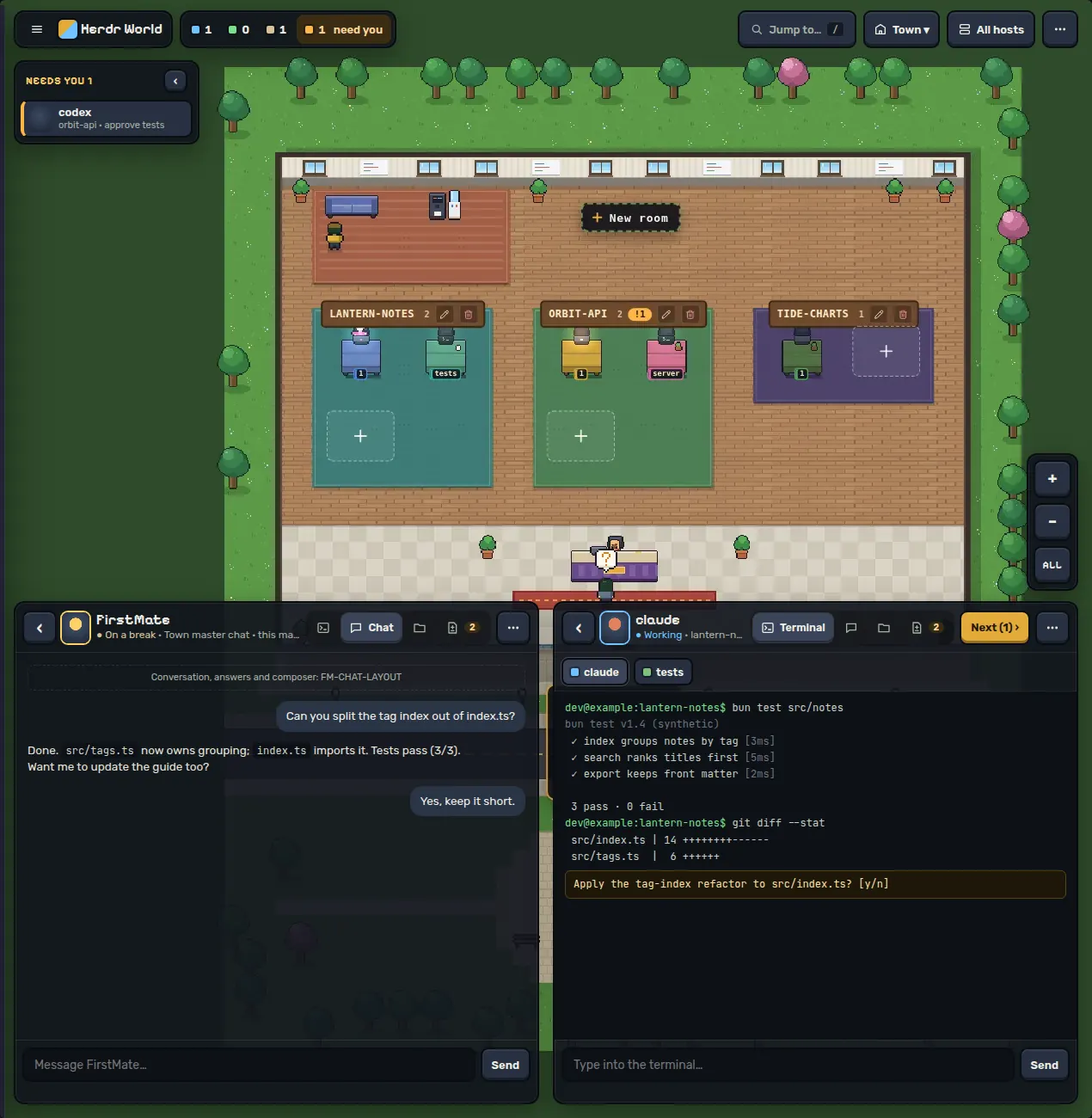
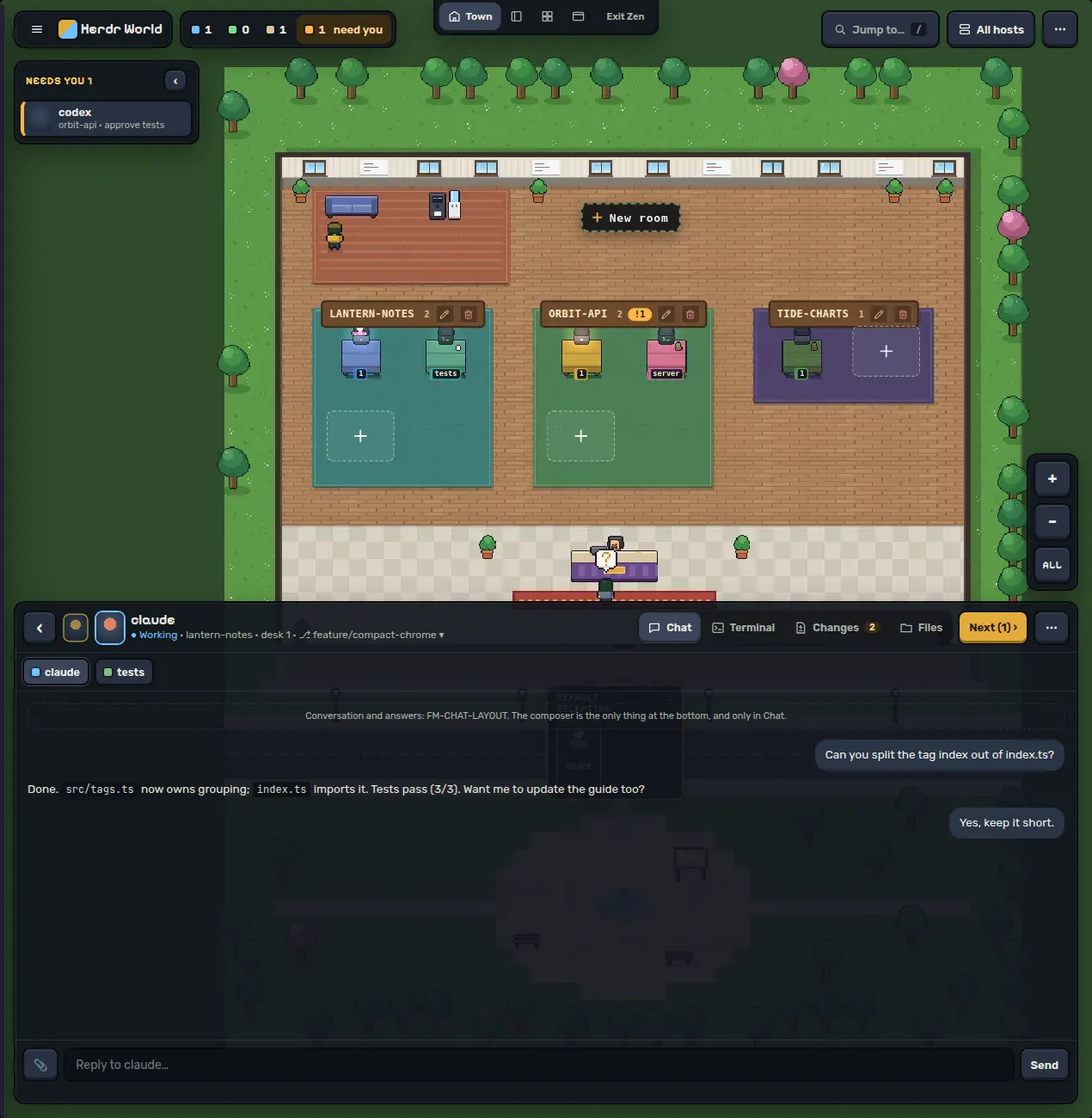
Record owner decisions: Zen Town, one window per agent, one top selector
Town defaults to Zen with a floating view picker, Zen works on phones,
FirstMate and the agent share the dock as avatar tabs in the bar, and
each agent has one Inspector window whose header carries the only
selector (Chat, Terminal, Changes, Files) with Chat's composer as the
only bottom element.

diff --git a/docs/evidence/ui-chrome-design/prototype.html b/docs/evidence/ui-chrome-design/prototype.html
@@ -120,7 +120,7 @@ code{font:500 12px var(--f-mono);color:#cfd6c9;background:#0d1117;padding:1px 5p
 .tchip b{display:block;font:600 13px var(--f-body)}
 .tchip small{display:block;font-size:11px;color:var(--muted)}
 .tray{left:16px;top:70px;width:216px;flex-direction:column}
-@container dev (max-width:899px){ .tray{top:auto;width:auto;flex-direction:row;align-items:center;left:10px;right:70px;bottom:calc(var(--nav-h,0px) + 10px)} }
+@container dev (max-width:899px){ .tray{top:auto;width:auto;flex-direction:row;align-items:center;left:72px;right:72px;bottom:calc(var(--nav-h,0px) + 10px)} }
 
 /* Camera cluster */
 .camera{position:absolute;z-index:3;right:16px;top:50%;transform:translateY(-50%);display:flex;flex-direction:column;gap:6px;padding:6px;background:var(--panel);border:2px solid var(--edge);border-radius:12px;box-shadow:inset 0 0 0 1px var(--hi),0 10px 30px rgba(0,0,0,.35);transition:right .3s}
@@ -158,7 +158,7 @@ code{font:500 12px var(--f-mono);color:#cfd6c9;background:#0d1117;padding:1px 5p
 .who{display:flex;align-items:center;gap:8px;min-width:0;flex:1 1 auto}
 .avatar{width:32px;height:36px;border-radius:7px;flex:none;position:relative;background:radial-gradient(circle at 50% 38%,#e0835f 0 26%,#3b4a63 27%,#1b2230);box-shadow:0 0 0 2px var(--swatch,#6fc3ff)}
 .avatar.fm{background:radial-gradient(circle at 50% 38%,#ffd166 0 26%,#3b4a63 27%,#1b2230)}
-.ident{min-width:0;display:flex;flex-direction:column}
+.ident{min-width:88px;flex:1 1 auto;display:flex;flex-direction:column}
 .ident b{font:700 16px/1.1 var(--f-display);white-space:nowrap;overflow:hidden;text-overflow:ellipsis;display:flex;align-items:center;gap:6px}
 .where{all:unset;cursor:pointer;color:var(--muted);font-size:12px;white-space:nowrap;overflow:hidden;text-overflow:ellipsis;max-width:100%;border-radius:4px}
 .where:hover{color:var(--text)}
@@ -168,7 +168,6 @@ code{font:500 12px var(--f-mono);color:#cfd6c9;background:#0d1117;padding:1px 5p
 .chip[aria-selected="true"]{background:var(--btn-on);color:var(--text);box-shadow:inset 0 -2px 0 rgba(0,0,0,.35),0 0 0 1px rgba(255,255,255,.14)}
 .chip .n{font-size:10.5px;background:#3a2c14;color:#ffd79a;border-radius:999px;padding:0 6px}
 .chip .t{display:none}
-.chip[aria-selected="true"] .t{display:inline}
 @container win (min-width:640px){ .chip .t{display:inline} }
 .next{white-space:nowrap;flex:none}
 .st.working{color:var(--work)}.st.idle{color:var(--idle)}
@@ -203,10 +202,34 @@ code{font:500 12px var(--f-mono);color:#cfd6c9;background:#0d1117;padding:1px 5p
 .compose input{flex:1;min-width:0;font:400 14px var(--f-body);color:var(--text);background:var(--term);border:2px solid var(--edge);border-radius:9px;padding:0 12px;min-height:40px}
 .collapsed .panes,.collapsed .wbody,.collapsed .compose{display:none}
 .win.collapsed{height:auto!important}
+.avtab{all:unset;cursor:pointer;position:relative;display:inline-flex;border-radius:8px;opacity:.6;transform:scale(.82)}
+.avtab:hover,.avtab:focus-visible{opacity:1}
+.avtab:focus-visible{outline:2px solid var(--accent)}
+.avtab .badge{position:absolute;right:-2px;top:-2px;width:9px;height:9px;border-radius:50%;background:var(--wait);box-shadow:0 0 0 2px var(--edge)}
+.cviews{display:flex;gap:2px;flex:none}
+.cviews .chip{min-height:40px;padding:0 7px}
+.compose .dv-btn.on{background:var(--btn-on);color:var(--work)}
+.vpop{position:absolute;left:8px;bottom:56px;z-index:8;width:200px;padding:6px;background:var(--solid);border:2px solid var(--edge);border-radius:10px;display:flex;flex-direction:column}
+.vpop .mi,.zsheet .mi{all:unset;cursor:pointer;display:flex;align-items:center;gap:8px;padding:10px;border-radius:7px;font-size:14px;min-height:24px}
+.vpop .mi:hover,.zsheet .mi:hover,.zsheet .mi.on{background:#222b39}
+.vpop .n{font-size:10.5px;background:#3a2c14;color:#ffd79a;border-radius:999px;padding:0 6px}
+.zpick{position:absolute;z-index:3;top:0;left:50%;transform:translateX(-50%);display:flex;gap:2px;padding:4px 6px 5px;background:var(--panel);border:2px solid var(--edge);border-top:0;border-radius:0 0 12px 12px;box-shadow:0 10px 30px rgba(0,0,0,.35)}
+.zp{all:unset;cursor:pointer;display:inline-flex;align-items:center;gap:5px;height:30px;padding:0 9px;border-radius:8px;font:600 12px var(--f-body);color:var(--muted)}
+.zp span{display:none}
+.zp.on{background:var(--btn-on);color:var(--text)}.zp.on span{display:inline}
+.zp:hover{color:var(--text)}
+.zp.exit{border-left:1px solid var(--line);border-radius:0 8px 8px 0;margin-left:4px;font-size:11px}
+.zfab{position:absolute;z-index:5;left:10px;bottom:10px}
+.zfab>.dv-btn{width:52px;height:52px;padding:0;border-radius:14px;background:var(--panel)}
+.zsheet{position:absolute;left:0;bottom:60px;width:200px;padding:6px;background:var(--solid);border:2px solid var(--edge);border-radius:12px;box-shadow:0 12px 30px rgba(0,0,0,.5);display:flex;flex-direction:column}
+.zsheet hr{border:0;border-top:1px solid var(--line);margin:4px 2px}
 .thumbviews{display:none}
-/* phone: window covers the screen, views move to the thumb row above the composer */
+/* phone: the window covers the screen; the selector stays in the header */
 .win.cover{inset:0;border-radius:0;border:0;background:var(--solid)!important}
-.win.cover .wbar .views{display:none}
+.win.cover .wbar{gap:4px;padding:6px}
+.win.cover .views{padding:2px;gap:2px}
+.win.cover .chip{min-height:40px;padding:0 8px}
+.win.cover .ident{min-width:64px}
 .win.cover .thumbviews{display:flex;justify-content:space-between;padding:6px 8px 0;border-top:1px solid var(--line);flex:none}
 .win.cover .thumbviews .chip{flex:1;justify-content:center;min-height:44px}
 .win.cover .thumbviews .chip .t{display:inline}
@@ -274,10 +297,10 @@ code{font:500 12px var(--f-mono);color:#cfd6c9;background:#0d1117;padding:1px 5p
         <h3>Town window (v4 skin)</h3>
         <ul class="plain">
           <li><b>‹ Back</b> · avatar (its ring is the terminal colour) · <b>name</b> + status pill, with a <b>location line</b> underneath (room · desk · branch). Tap the location line for branch, worktree, path and PR.</li>
-          <li><b>View chips</b> for Terminal, Chat, Files and Changes sit in the same bar. The active chip shows its label; the others are icons until the window is 640px wide.</li>
-          <li><b>Next ›</b> is the primary action. It turns gold when someone else needs you.</li>
+          <li><b>One top selector</b> with Chat, Terminal, Changes and Files sits in the same bar on every screen size. The chips are icons until the window is 640px wide; Changes shows its count.</li>
+          <li><b>Next ›</b> is the primary action on desktop and turns gold when someone else needs you. On a phone it moves into ⋯, because the need-you pill already covers it.</li>
           <li><b>⋯</b> holds the rare actions: snap, float or dock, maximise, minimise, colour and pop-out. Double-click the bar to maximise; drag it to the edges to snap.</li>
-          <li>Pane chips get a second row only when the desk has 2 or more panes. The composer is owned by Chat.</li>
+          <li>Pane chips get a second row only when the desk has 2 or more panes. At the bottom there is only Chat's composer (attach, reply box, send), and only in Chat. Terminal, Changes and Files have no bottom bar.</li>
         </ul>
       </div>
       <div>
@@ -306,11 +329,11 @@ code{font:500 12px var(--f-mono);color:#cfd6c9;background:#0d1117;padding:1px 5p
     <div class="tablewrap"><table>
       <thead><tr><th>Viewport</th><th>Town dock</th><th>Window bar</th><th>Tray and camera</th><th>Board / Spaces</th></tr></thead>
       <tbody>
-        <tr><td>Phone 390 × 844</td><td>Window covers the screen. Back returns to the map. FirstMate chat is reached from the need-you pill.</td><td>Back, name, Next on top. View chips move to a 44px thumb row above the composer.</td><td>Bottom tray strip. One 44px camera button. Bottom nav kept.</td><td>Unchanged: phone Board and Spaces already use one header.</td></tr>
-        <tr><td>Mac laptop 1440 × 900</td><td>Right dock, <code>min(520px, 40vw)</code>. FirstMate chat folds to its 58px bar above the agent window.</td><td>Town skin. Icon chips except the active one.</td><td>Left rail of 216px. Camera sits beside the dock.</td><td>Calm 44px app bar. Spaces uses a 40px merged bar.</td></tr>
-        <tr><td>Half-width Linux 1270 × 1300</td><td>Right dock, 508px. Both windows open, stacked in halves (the height allows it).</td><td>As laptop.</td><td>Left rail. Hosts shrinks to an icon.</td><td>Sidebar follows the user's preference. Inspector windows open at 60% width.</td></tr>
-        <tr><td>Wide Linux 2560 × 1300</td><td>Two docked columns of 520px: FirstMate chat and the agent window.</td><td>Labelled chips, since the window is 520px or wider.</td><td>Left rail. Camera beside the dock.</td><td>As laptop.</td></tr>
-        <tr><td>Portrait 1080 × 1800</td><td>Bottom dock at 45% height, with the two windows side by side. Width is scarce here; height is not.</td><td>Town skin.</td><td>Left rail. Camera above the dock.</td><td>Spaces terminal gains the 84px.</td></tr>
+        <tr><td>Phone 390 × 844</td><td>Window covers the screen. Back returns to the map. FirstMate is the other tab.</td><td>‹, avatar, name, the 4-icon selector (40px targets) and ⋯. Next goes into ⋯.</td><td>Bottom strip, with the view picker at bottom left and one 44px camera button. In Zen there is no bottom nav.</td><td>Unchanged: phone Board and Spaces already use one header.</td></tr>
+        <tr><td>Mac laptop 1440 × 900</td><td>Right dock, <code>min(520px, 40vw)</code>. FirstMate and the agent share it as avatar tabs in the bar.</td><td>Town skin. Icon chips.</td><td>Left rail. Camera beside the dock.</td><td>Calm 44px app bar. Spaces uses a 40px merged bar.</td></tr>
+        <tr><td>Half-width Linux 1270 × 1300</td><td>Right dock, 508px, with avatar tabs.</td><td>As laptop.</td><td>Left rail. Hosts shrinks to an icon.</td><td>Sidebar follows the user's preference. Inspector windows open at 60% width.</td></tr>
+        <tr><td>Wide Linux 2560 × 1300</td><td>Right dock of 520px, with avatar tabs. Undock a tab to float it beside the dock.</td><td>Icon chips; labels appear at 640px or wider.</td><td>Left rail. Camera beside the dock.</td><td>As laptop.</td></tr>
+        <tr><td>Portrait 1080 × 1800</td><td>Bottom dock at 45% height and full width, with avatar tabs. Width is scarce here; height is not.</td><td>Town skin.</td><td>Left rail. Camera above the dock.</td><td>Spaces terminal gains the 84px.</td></tr>
       </tbody>
     </table></div>
   </section>
@@ -331,7 +354,7 @@ code{font:500 12px var(--f-mono);color:#cfd6c9;background:#0d1117;padding:1px 5p
         <tr><td>1 controls</td><td>Dock / float / dock side / expand / pop-out</td><td>Inspector placement modes</td><td><span class="freq f4">rare</span></td><td>⋯ menu</td></tr>
         <tr><td>1 controls</td><td>Colour swatch (#261)</td><td>Pick the terminal colour</td><td><span class="freq f4">rare</span></td><td>Avatar ring or swatch; picker under ⋯ → Colour</td></tr>
         <tr><td>1 controls</td><td>Repository status (PR icon)</td><td>PR card popover</td><td><span class="freq f3">sometimes</span></td><td>Location popover. The icon goes, because it duplicates bar 3.</td></tr>
-        <tr><td>2 views</td><td>Terminal · Files · Changes (+count) · Commits · Chat</td><td>Switch the view</td><td><span class="freq f1">constant</span></td><td>Chips in the one bar; a thumb row on phone</td></tr>
+        <tr><td>2 views</td><td>Terminal · Files · Changes (+count) · Commits · Chat</td><td>Switch the view</td><td><span class="freq f1">constant</span></td><td>One top selector in the bar, phone included</td></tr>
         <tr><td>3 branch</td><td>Branch-link icon row</td><td>Opens PR status</td><td><span class="freq f4">rare</span></td><td>Removed; the location popover covers it</td></tr>
         <tr><td>3 PR card</td><td>“PR/MR status” card (Changes, Commits)</td><td>Provider PR state, refresh</td><td><span class="freq f3">sometimes</span></td><td>Pill in the Changes toolbar plus the popover</td></tr>
         <tr><td>Town</td><td>Camera + − ALL (+ ⋮ on phone)</td><td>Zoom and fit</td><td><span class="freq f2">often</span></td><td>Desktop cluster; one 44px fit button on phone (was 56 × 190)</td></tr>
@@ -363,8 +386,8 @@ const VPS = [
 ];
 const VIEWS = ['Town','Board','Spaces'];
 const MODES = ['Before','After'];
-let st = {vp:'laptop', view:'Town', mode:'After', open:true, drawer:false};
-try { const s = JSON.parse(localStorage.getItem('chrome-proto') || 'null'); if (s) st = {...st, ...s, drawer:false}; } catch {}
+let st = {vp:'laptop', view:'Town', mode:'After', open:true, drawer:false, opt:'B', picker:false};
+try { const s = JSON.parse(localStorage.getItem('chrome-proto') || 'null'); if (s) st = {...st, ...s, drawer:false, picker:false}; } catch {}
 const save = () => { try { localStorage.setItem('chrome-proto', JSON.stringify(st)); } catch {} };
 const $ = (id) => document.getElementById(id);
 const esc = (s) => String(s).replace(/[&<>"]/g, (m) => ({'&':'&amp;','<':'&lt;','>':'&gt;','"':'&quot;'}[m]));
@@ -438,7 +461,7 @@ function extras() {
 }
 
 /* ---------- window mock ---------- */
-const VIEW_DEFS = [['terminal','Terminal',I.term],['chat','Chat',I.chat],['files','Files',I.files],['changes','Changes',I.diff]];
+const VIEW_DEFS = [['chat','Chat',I.chat],['terminal','Terminal',I.term],['changes','Changes',I.diff],['files','Files',I.files]];
 function chips(cur, id) {
   return VIEW_DEFS.map(([k,l,ic]) => `<button type="button" class="chip" role="tab" data-win="${id}" data-v="${k}" aria-selected="${cur===k}" aria-label="${l}">${ic}<span class="t">${l}</span>${k==='changes'?'<span class="n">2</span>':''}</button>`).join('');
 }
@@ -454,33 +477,33 @@ function body(v, w) {
  src/index.ts | 14 ++++++++------
  src/tags.ts  |  6 ++++++
 <span class="q">Apply the tag-index refactor to src/index.ts? [y/n]</span></pre>`;
-  if (v === 'chat') return `<div class="chatv"><div class="owner">Conversation, answers and composer: FM-CHAT-LAYOUT</div><div class="me">Can you split the tag index out of index.ts?</div><div class="ag">Done. <code>src/tags.ts</code> now owns grouping; <code>index.ts</code> imports it. Tests pass (3/3). Want me to update the guide too?</div><div class="me">Yes, keep it short.</div></div>`;
+  if (v === 'chat') return `<div class="chatv"><div class="owner">Conversation and answers: FM-CHAT-LAYOUT. The composer is the only thing at the bottom, and only in Chat.</div><div class="me">Can you split the tag index out of index.ts?</div><div class="ag">Done. <code>src/tags.ts</code> now owns grouping; <code>index.ts</code> imports it. Tests pass (3/3). Want me to update the guide too?</div><div class="me">Yes, keep it short.</div></div>`;
   if (v === 'files') return `<div class="listv"><div class="tb">~/demo/lantern-notes</div>${['README.md','src/','  index.ts','  tags.ts','  search.ts','docs/','  guide.md'].map((f)=>`<div class="r">${f.endsWith('/')?I.files:''}<code>${esc(f)}</code></div>`).join('')}</div>`;
   return `<div class="listv"><div class="tb">2 files · <span class="pill">⎇ feature/compact-chrome</span><span class="pill">No PR provider</span></div><div class="r"><code>src/index.ts</code><span class="add">+8</span><span class="del">−6</span></div><div class="r"><code>src/tags.ts</code><span class="add">+6</span><span class="del">−0</span></div></div>`;
 }
 const WIN = {
-  a:{name:'claude', status:'working', where:'lantern-notes · desk 1 · ⎇ feature/compact-chrome', view:'terminal', swatch:'#6fc3ff', panes:['claude','tests'], fm:false},
+  a:{name:'claude', status:'working', where:'lantern-notes · desk 1 · ⎇ feature/compact-chrome', view:'chat', swatch:'#6fc3ff', panes:['claude','tests'], fm:false},
   fm:{name:'FirstMate', status:'idle', where:'Town master chat · this machine', view:'chat', swatch:'#ffd166', panes:null, fm:true},
 };
-let menuOpen = null, popOpen = null;
+let menuOpen = null, popOpen = null, activeTab = 'a';
 function townWin(id, style, opts = {}) {
   const w = WIN[id];
   const cover = !!opts.cover;
   return `<section class="win ${cover?'cover':''} ${opts.collapsed?'collapsed':''}" data-skin="town" data-id="${id}" style="${style};--swatch:${w.swatch}" aria-label="${w.name} window">
     <header class="wbar" title="Drag to move · double-click to maximise">
       <button type="button" class="dv-btn" aria-label="Back to the town" style="font-size:20px;padding:0">‹</button>
-      <div class="who"><span class="avatar ${w.fm?'fm':''}"></span><div class="ident"><b>${esc(w.name)}</b><button type="button" class="where" data-pop="${id}" aria-expanded="${popOpen===id}"><span class="st ${w.status}">● ${w.status==='working'?'Working':'On a break'}</span> · ${esc(w.where)} ▾</button></div></div>
+      <div class="who">${opts.tabs?opts.tabs.map((t)=>t===id?'':`<button type="button" class="avtab" data-tab="${t}" aria-label="Switch to ${WIN[t].name}" title="${WIN[t].name}"><span class="avatar ${WIN[t].fm?'fm':''}" style="--swatch:${WIN[t].swatch}"></span>${t==='fm'?'':'<i class="badge"></i>'}</button>`).join(''):''}<span class="avatar ${w.fm?'fm':''}"></span><div class="ident"><b>${esc(w.name)}</b><button type="button" class="where" data-pop="${id}" aria-expanded="${popOpen===id}"><span class="st ${w.status}">● ${w.status==='working'?'Working':'On a break'}</span> · ${esc(w.where)} ▾</button></div></div>
       <div class="views" role="tablist" aria-label="Views">${chips(w.view, id)}</div>
-      ${w.fm?'':`<button type="button" class="dv-btn next hot">Next (1) ›</button>`}
+      ${w.fm||cover?'':`<button type="button" class="dv-btn next hot">Next (1) ›</button>`}
       <button type="button" class="dv-btn" data-menu="${id}" aria-label="More window actions" aria-expanded="${menuOpen===id}">${I.more}</button>
       ${menuOpen===id?menu(id,'town'):''}${popOpen===id?pop(id):''}
     </header>
     ${w.panes && !opts.collapsed ? `<nav class="panes" aria-label="Panes on this desk">${w.panes.map((p,i)=>`<button type="button" class="chip" aria-pressed="${i===0}"><i class="dot" style="background:${i===0?'var(--work)':'#7fbf7a'}"></i>${p}</button>`).join('')}</nav>` : ''}
     <div class="wbody">${body(w.view)}</div>
-    ${cover?`<nav class="thumbviews" role="tablist" aria-label="Views">${chips(w.view, id)}</nav>`:''}
-    <form class="compose" onsubmit="return false"><input aria-label="Message" placeholder="${w.view==='terminal'?'Type into the terminal…':'Message '+esc(w.name)+'…'}"><button type="button" class="dv-btn">Send</button></form>
+    ${w.view==='chat'?`<form class="compose" onsubmit="return false"><button type="button" class="dv-btn" aria-label="Attach">📎</button><input aria-label="Reply" placeholder="Reply to ${esc(w.name)}…"><button type="button" class="dv-btn">Send</button></form>`:''}
   </section>`;
 }
+let viewPop = false;
 function calmWin(id, style) {
   const w = WIN[id];
   return `<section class="win" data-skin="calm" data-id="${id}" style="${style};--swatch:${w.swatch}" aria-label="${w.name} Inspector window">
@@ -496,8 +519,9 @@ function calmWin(id, style) {
   </section>`;
 }
 function menu(id, skin) {
+  const views = st.vp === 'phone' && skin === 'town' ? `<button type="button" class="mi" role="menuitem">Next agent that needs you<kbd>1</kbd></button><hr>` : '';
   const items = [['Maximise','double-click'],['Minimise',''],['Snap left','drag ←'],['Snap right','drag →'],['Snap top / bottom',''],[skin==='town'?'Undock (float)':'Dock to the right',''],['Open terminal window','']];
-  return `<div class="wmenu" role="menu">${items.map(([l,k])=>`<button type="button" class="mi" role="menuitem">${l}<kbd>${k}</kbd></button>`).join('')}<hr><div class="sw" aria-label="Colour">${['#6fc3ff','#7be08f','#ffb547','#ff7a6b','#c79bff','#d9c39b'].map(c=>`<i style="background:${c}"></i>`).join('')}</div><hr><button type="button" class="mi" role="menuitem">Close<kbd>Esc</kbd></button></div>`;
+  return `<div class="wmenu" role="menu">${views}${items.map(([l,k])=>`<button type="button" class="mi" role="menuitem">${l}<kbd>${k}</kbd></button>`).join('')}<hr><div class="sw" aria-label="Colour">${['#6fc3ff','#7be08f','#ffb547','#ff7a6b','#c79bff','#d9c39b'].map(c=>`<i style="background:${c}"></i>`).join('')}</div><hr><button type="button" class="mi" role="menuitem">Close<kbd>Esc</kbd></button></div>`;
 }
 function pop(id) {
   const fm = WIN[id].fm;
@@ -512,7 +536,6 @@ function townHud(vp) {
     <div class="panel counts" role="status"><span class="c" title="Working"><i class="dot" style="background:var(--work)"></i>1</span><span class="c" title="Finished"><i class="dot" style="background:var(--done)"></i>0</span><span class="c" title="On a break"><i class="dot" style="background:var(--idle)"></i>1</span><button type="button" class="c attn"><i class="dot" style="background:var(--wait)"></i>1<span class="lbl">&nbsp;need you</span></button></div>
     <div class="spacer"></div>
     <button type="button" class="dv-btn jump" style="min-height:44px">${I.search}<span>Jump to…</span><kbd>/</kbd></button>
-    <button type="button" class="dv-btn viewsel" style="min-height:44px">${I.town} Town ▾</button>
     <button type="button" class="dv-btn hosts" style="min-height:44px">${I.hosts}<span>All hosts</span></button>
     <button type="button" class="dv-btn" style="min-height:44px" aria-label="Menu">${I.more}</button>
   </div>`;
@@ -527,6 +550,12 @@ function camera() {
   ${camToast?'<div class="camtoast">Fitted the whole town</div>':''}`;
 }
 let camPop = false, camToast = false;
+const PICK = [['Town',I.town],['Board',I.board],['Desk',I.desk],['Spaces',I.spaces]];
+function picker(vp) {
+  const phone = vp.w < 641;
+  if (!phone) return `<div class="zpick" role="group" aria-label="World view">${PICK.map(([l,ic])=>`<button type="button" class="zp ${l==='Town'?'on':''}" aria-pressed="${l==='Town'}" title="${l}">${ic}<span>${l}</span></button>`).join('')}<button type="button" class="zp exit" title="Show the bars (Ctrl+Alt+Z)">Exit Zen</button></div>`;
+  return `<div class="zfab"><button type="button" class="dv-btn" id="pickBtn" aria-haspopup="menu" aria-expanded="${st.picker}" aria-label="Switch view: Town">${I.town}</button>${st.picker?`<div class="zsheet" role="menu">${PICK.map(([l,ic])=>`<button type="button" class="mi ${l==='Town'?'on':''}" role="menuitem">${ic} ${l}</button>`).join('')}<hr><button type="button" class="mi" role="menuitem">Show the bars</button></div>`:''}</div>`;
+}
 function drawer() {
   return `<nav class="drawer" aria-label="Workspaces"><b style="font:700 13px var(--f-display);color:var(--muted)">WORKSPACES</b>
     <div class="ws">lantern-notes</div><div class="row on"><i class="dot" style="background:var(--work)"></i>claude<em>Working</em></div><div class="row"><i class="dot" style="background:#7fbf7a"></i>tests<em>shell</em></div>
@@ -540,9 +569,10 @@ function townScene(vp) {
   let html = `<img class="backdrop" alt="" src="img/${vp.id}-backdrop.webp">`;
   let dock = 'none';
   const dw = Math.min(520, Math.round(vp.w * 0.4));
-  if (phone) d.style.setProperty('--nav-h', '75px');
+  if (phone) d.style.setProperty('--nav-h', '0px');
   html += townHud(vp) + tray(vp) + camera();
-  if (phone) html += `<div class="mnav"><span class="on">${I.town}Town</span><span>${I.board}Board</span><span>${I.desk}Desk</span><span>${I.spaces}Spaces</span></div>`;
+  if (!(phone && st.open)) html += picker(vp);
+  if (false) html += `<div class="mnav"><span class="on">${I.town}Town</span><span>${I.board}Board</span><span>${I.desk}Desk</span><span>${I.spaces}Spaces</span></div>`;
   if (st.open) {
     if (phone) {
       html += townWin('a', 'inset:0', {cover:true});
@@ -550,25 +580,11 @@ function townScene(vp) {
       dock = 'bottom';
       const dh = Math.round(vp.h * 0.45);
       d.style.setProperty('--dock-h', dh + 'px');
-      const half = Math.round((vp.w - 48) / 2);
-      html += townWin('fm', `left:16px;bottom:16px;width:${half}px;height:${dh}px`);
-      html += townWin('a', `right:16px;bottom:16px;width:${half}px;height:${dh}px`);
-    } else if (wide) {
-      dock = 'right';
-      d.style.setProperty('--dock-w', (dw * 2 + 12) + 'px');
-      html += townWin('fm', `right:${16 + dw + 12}px;top:70px;bottom:16px;width:${dw}px`);
-      html += townWin('a', `right:16px;top:70px;bottom:16px;width:${dw}px`);
-    } else if (vp.h >= 1100) {
-      dock = 'right';
-      d.style.setProperty('--dock-w', dw + 'px');
-      const hh = Math.round((vp.h - 70 - 16 - 12) / 2);
-      html += townWin('fm', `right:16px;top:70px;width:${dw}px;height:${hh}px`);
-      html += townWin('a', `right:16px;top:${70 + hh + 12}px;width:${dw}px;bottom:16px`);
+      html += townWin(activeTab, `left:16px;right:16px;bottom:16px;height:${dh}px`, {tabs:['a','fm']});
     } else {
       dock = 'right';
       d.style.setProperty('--dock-w', dw + 'px');
-      html += townWin('fm', `right:16px;top:70px;width:${dw}px`, {collapsed:true});
-      html += townWin('a', `right:16px;top:${70 + 62 + 10}px;width:${dw}px;bottom:16px`);
+      html += townWin(activeTab, `right:16px;top:70px;width:${dw}px;bottom:16px`, {tabs:['a','fm']});
     }
   }
   if (st.drawer) html += drawer();
@@ -640,7 +656,10 @@ function render() {
 document.addEventListener('click', (e) => {
   const t = e.target.closest('button');
   if (!t || !$('device').contains(t)) { if (menuOpen || popOpen) { menuOpen = popOpen = null; if ($('device').contains(e.target)) render(); } return; }
-  if (t.dataset.v) { WIN[t.dataset.win].view = t.dataset.v; render(); return; }
+  if (t.dataset.v) { WIN[t.dataset.win].view = t.dataset.v; menuOpen = null; viewPop = false; render(); return; }
+  if (t.dataset.tab) { activeTab = t.dataset.tab; render(); return; }
+  if (t.id === 'viewBtn') { viewPop = !viewPop; render(); return; }
+  if (t.id === 'pickBtn') { st.picker = !st.picker; render(); return; }
   if (t.dataset.menu) { menuOpen = menuOpen === t.dataset.menu ? null : t.dataset.menu; popOpen = null; render(); return; }
   if (t.dataset.pop) { popOpen = popOpen === t.dataset.pop ? null : t.dataset.pop; menuOpen = null; render(); return; }
   if (t.hasAttribute('data-drawer')) { st.drawer = !st.drawer; render(); return; }

diff --git a/docs/evidence/ui-chrome-design/README.md b/docs/evidence/ui-chrome-design/README.md
@@ -50,7 +50,7 @@ only on desktop. `App.tsx` gates it on `!mobile`, so on phone it changes nothing
 | 1 | Dock side, expand, pop-out terminal | rare | ⋯ menu |
 | 1 | Colour swatch (#261) | rare | ⋯ → Colour; shown as the avatar ring or swatch |
 | 1 | Repository status icon | sometimes | Location popover (it duplicated bar 3) |
-| 2 | Terminal · Files · Changes · Commits · Chat | constant | View chips in the one bar; a thumb row on phone |
+| 2 | Terminal · Files · Changes · Commits · Chat | constant | One top selector in the bar, phone included (Commits stays in Changes' own toolbar) |
 | 3 | Branch-link row | rare | Removed; the location popover covers it |
 | 3 | PR card on Changes and Commits | sometimes | Pill in the Changes toolbar, plus the popover |
 
@@ -63,11 +63,10 @@ Inspector, the Spaces tab window and the Town chat window.
 
 - **Town skin** (Town v4 prototype): dark translucent panel with a 2px edge and
   soft shadow, 40–44px targets, and the name in Pixelify Sans. The bar is
-  `‹ Back · avatar · name / location line · view chips · Next › · ⋯`, 58px in
-  total. View chips are icon-only except the active one until the window reaches
-  640px, then all are labelled. Pane chips get a second row only when the desk
-  has two or more panes. Chat owns the conversation, answers and composer
-  (FM-CHAT-LAYOUT).
+  `‹ Back · avatar · name / location line · [Chat | Terminal | Changes | Files] · Next › · ⋯`,
+  58px in total. Selector chips are icons until the window reaches 640px, then
+  labelled. Pane chips get a second row only when the desk has two or more
+  panes. Only Chat has a bottom area: its composer.
 - **Calm skin** (Board and Spaces): a 38px bar of
   `swatch · name · location line · view chips · ⋯ · maximise · close`.
 - **Location line and popover:** shows status, host, room, desk and pane,
@@ -95,11 +94,11 @@ VS Code, Warp, Zed and iTerm2's compact theme.
 
 | Viewport | Town dock | Window bar | Tray and camera |
 | --- | --- | --- | --- |
-| Phone | The window covers the screen; Back returns to the map | Back, name and Next on top; view chips in a 44px thumb row above the composer | Bottom strip; one 44px camera button; bottom nav kept |
-| Mac laptop | Right dock, `min(520px, 40vw)`. FirstMate chat folds to its bar above the agent window | Icon chips except the active one | Left rail; camera beside the dock |
-| Half-width Linux | Right dock, 508px; both windows open in halves | As laptop | Left rail; hosts shown as an icon |
-| Wide Linux | Two docked 520px columns: FirstMate chat and the agent window | Labelled chips | Left rail |
-| Portrait | Bottom dock at 45% height, windows side by side | Town skin | Left rail; camera above the dock |
+| Phone | The window covers the screen; Back returns to the map; FirstMate is the other tab | ‹, avatar, name, the 4-icon selector and ⋯ (Next is in ⋯) | Bottom strip; view picker at bottom left; one 44px camera button; no bottom nav in Zen |
+| Mac laptop | Right dock, `min(520px, 40vw)`; FirstMate and the agent are avatar tabs in the bar | Icon chips | Left rail; camera beside the dock |
+| Half-width Linux | Right dock, 508px, with avatar tabs | As laptop | Left rail; hosts shown as an icon |
+| Wide Linux | Right dock of 520px with avatar tabs; undock a tab to float it beside the dock | Icon chips; labels at 640px or wider | Left rail |
+| Portrait | Bottom dock at 45% height and full width, with avatar tabs | Town skin, labelled chips | Left rail; camera above the dock |
 
 The dock is the shared `WindowFrame` snapped right (owner decision Q9), so
 windows can still be undocked, moved and resized.
@@ -118,17 +117,19 @@ The calm window bar goes from 119 to 38 (from 177 to 38 on Changes).
 
 ## Coordination
 
-- **#261 (layers, colour swatch).** Merge as is. Phase 2 moves its
+- **#261 (layers, colour swatch), merged.** Phase 2 moves its
   `ColorSwatchButton` out of the Inspector head and into ⋯ → Colour, keeping the
   component. Its layer stack still owns Escape order for the ⋯ menu and the
   popover.
-- **#260 and #262 (Town peek, chat window in `WindowFrame`).** The `town-chat`
-  scope keeps Chat's own header (‹, name, where, Next ›). Phase 2 turns that
-  header into the Town-skin `WindowBar` by adding the view chips and ⋯. #262's
-  `WindowControls` then move into ⋯ for the Town skin. No separate window bar is
-  added.
+- **#260 and #262 (Town peek, chat window in `WindowFrame`).** Superseded by
+  the single-window rule. Town's desk tap and the docked FirstMate open the
+  agent's Inspector window with Chat selected; there is no separate `town-chat`
+  window. Hover peeks stay as small cards.
+- **FM-CHAT-LAYOUT.** Owns only the Chat view body, which is `AgentChat` from
+  #256 reskinned through tokens. Design owns the bar and the selector. Chat
+  mounts while selected (Inspector view `history`), so drafts live in its store.
 - **#258 (Chat send guard).** Content only, so no chrome impact.
-- **FM-CHAT-LAYOUT (`agent/chat-layout`).** It shares `townHud.css` tokens
+- **Town HUD tokens.** FM-CHAT-LAYOUT shares `townHud.css` tokens
   (`--hud-panel`, `--hud-edge`, `--hud-font-*`, `.hud-panel`). It exposes
   `data-town-panel` and `--town-panel-width` on `.town-view-shell`, and the
   camera cluster keys off those.
@@ -144,7 +145,40 @@ The calm window bar goes from 119 to 38 (from 177 to 38 on Changes).
 2. Town shell defaults: no top bar, tab strip or sidebar in Town; HUD bar;
    Workspaces drawer; the phone camera button.
 
-## Questions for the owner
+## Owner decisions (2026-10-22)
+
+- **Q10, Town is full-bleed by default.** That is Zen mode. Town defaults to
+  Zen, and Zen works on phones too. In Zen, a small floating view picker
+  switches between Town, Board, Desk and Spaces. On desktop it hangs from the
+  top edge with Exit Zen beside it. On a phone it is a 52px button in the
+  bottom-left corner on root screens, and it opens a short menu (the four views
+  and "Show the bars"). It replaces the bottom nav while Zen is on.
+- **Q11, yes.** Board drops the tab strip; Spaces merges it into the title bar.
+- **Q12, yes.** Pixelify Sans and JetBrains Mono are bundled locally (OFL). No
+  Google Fonts requests.
+- **Q13, tabs.** FirstMate and the agent you opened share the dock as tabs. To
+  keep one bar, the tabs are avatar buttons at the start of the bar, like pinned
+  browser tabs. The active tab shows its name and location line; the others show
+  only an avatar, with a dot when they need you. There is no extra tab row.
+- **Q14 and the single-window rule (after testing #262).** There is one window
+  per agent: the Inspector window, themed per view. There is no separate peek or
+  chat window, and Town's desk tap and the docked FirstMate open this window.
+  - The header holds identity (colour, name, status and the location line), ONE
+    top selector `[Chat | Terminal | Changes | Files]`, then the window
+    controls.
+  - The body is the selected view. Chat is the existing `AgentChat` (#256),
+    reskinned for Town through tokens rather than built as a new component.
+  - The bottom holds Chat's composer (attach, reply box, send), only in Chat.
+    No button rows, no bottom tab strip and no thumb row.
+  - **Phone header** at 390px: `‹ · avatar · name/status · [💬 ▣ ± 📁] · ⋯`.
+    The selector is four 40px icon targets in the top bar. Next moves into ⋯,
+    because the need-you pill already covers it.
+  - **Desktop header:** `‹ · tab avatars · name/location · [💬 ▣ ±2 📁] · Next › · ⋯`.
+    Chip labels appear at 640px of window width or more.
+
+  This supersedes the earlier composer-row options (A, B and C).
+
+## Questions answered
 
 1. Should Town hide the app top bar, tab strip and sidebar by default (the HUD
    plus a ☰ drawer), or should the sidebar only start collapsed?
